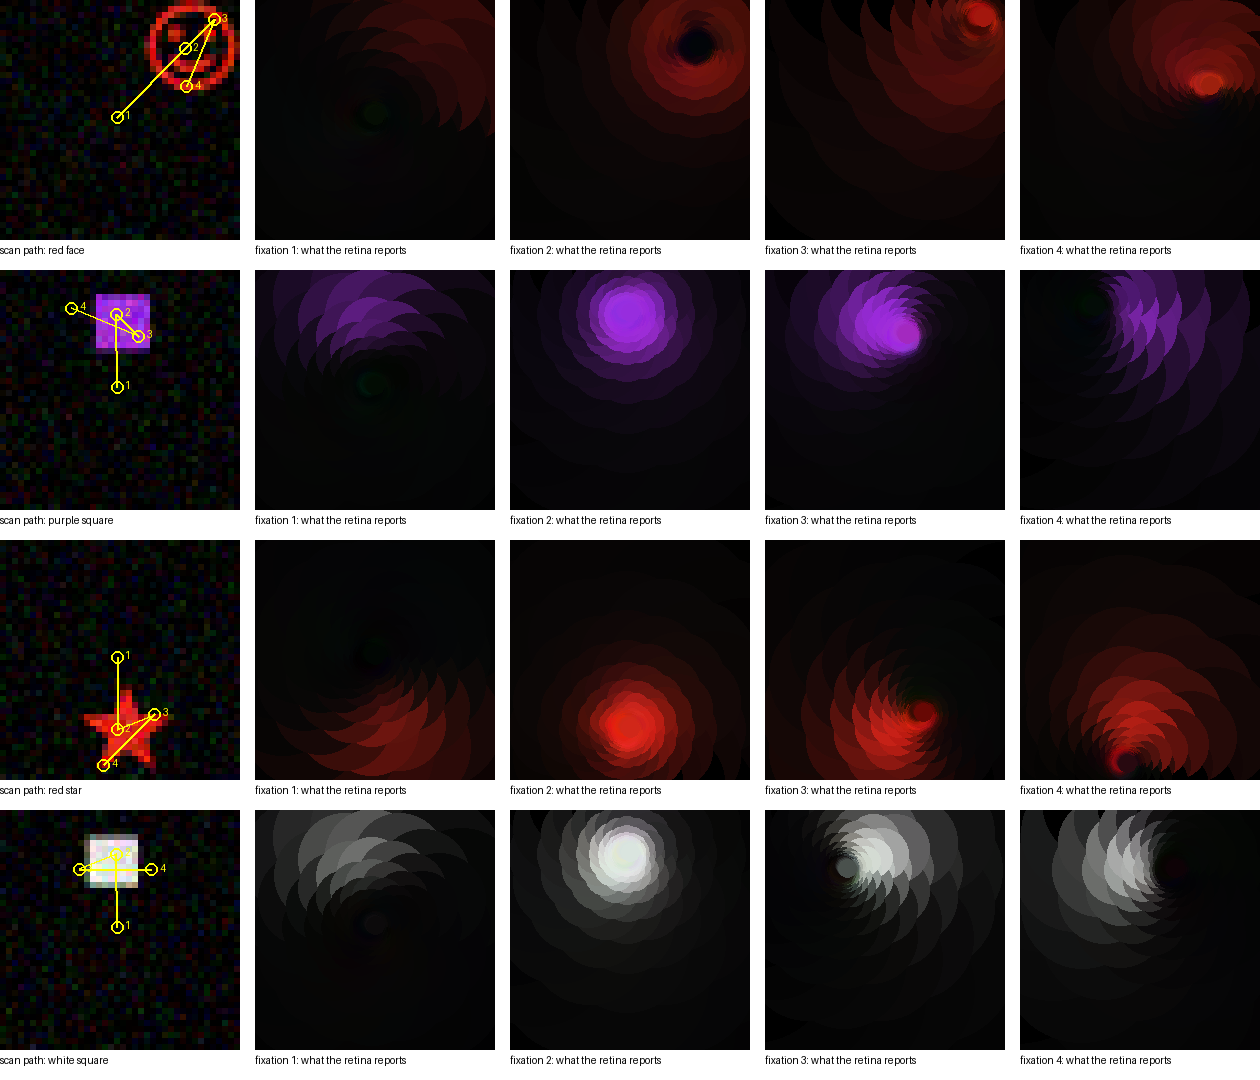
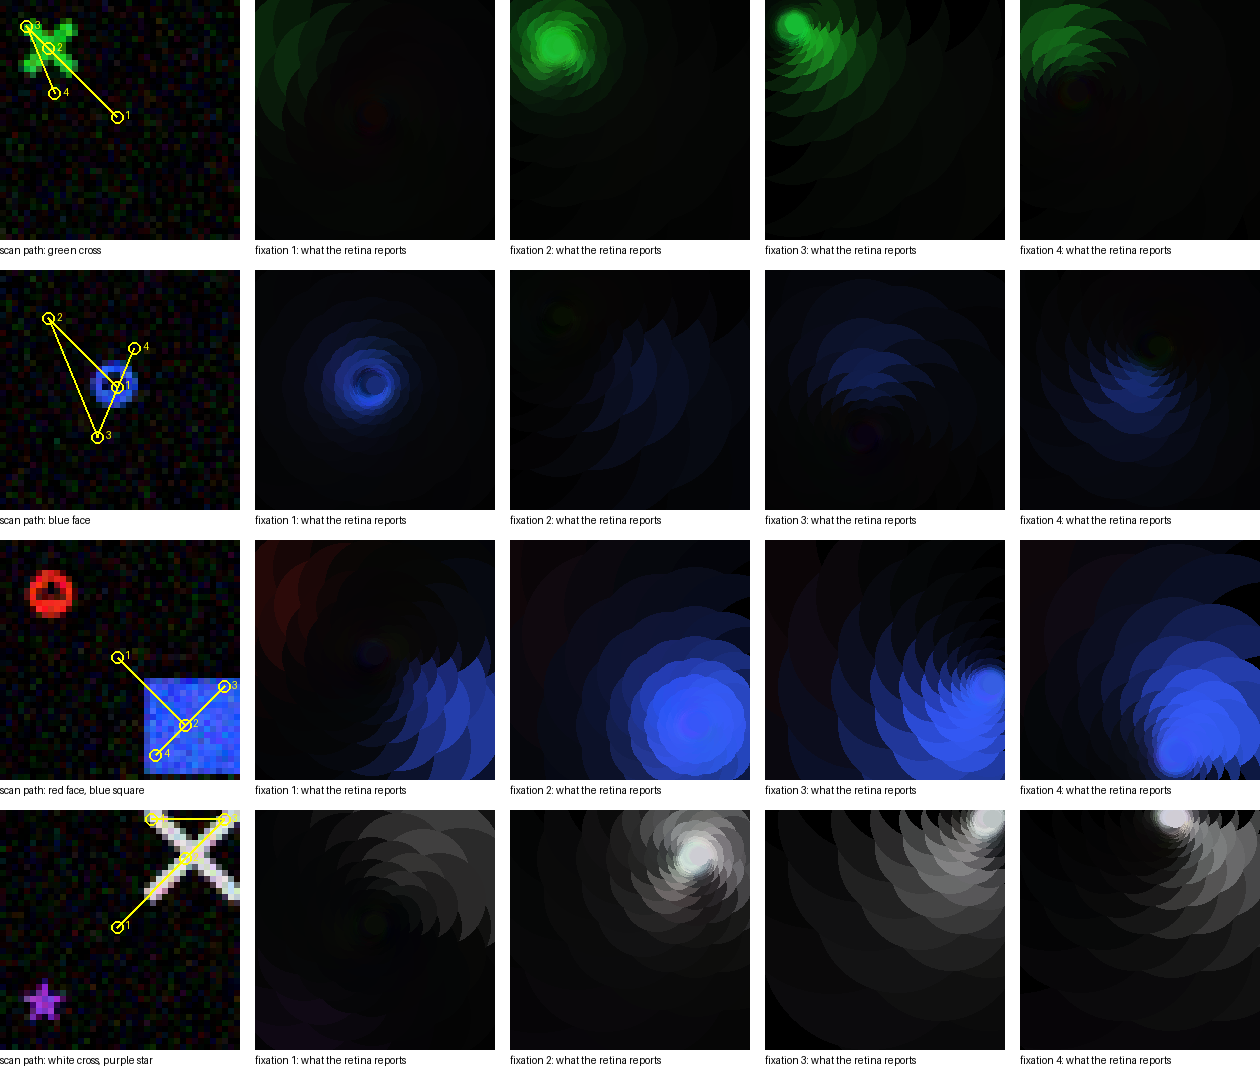
V1 develops oriented and color-opponent cells: contrast normalization + natural images
- V1 learns on signed opponent channels with each window's mean removed
  (local contrast normalization, as in retina/LGN); responses scale with contrast
- development: spontaneous retinal waves, then crops of natural photographs
  (scikit-image), never the task scenes
- all 16 cells find a niche: ring- and spoke-oriented edges, diagonals,
  color-opponent cells

Claude-Session: https://claude.ai/code/session_01G9bW4HVzX4fhrDVZRTMrFU

diff --git a/organic/retina.py b/organic/retina.py
@@ -190,7 +190,8 @@ class V1:
     def __init__(self, kinds=16, window=3, channels=6, k_active=2, seed=0):
         self.kinds = kinds
         self.window = window
-        self.dim = window * window * channels
+        self.channels = channels
+        self.dim = window * window * (channels // 2)  # signed opponent channels
         rng = np.random.default_rng(seed)
         w = rng.normal(0, 1, (kinds, self.dim)).astype(np.float32)
         self.W = w / np.linalg.norm(w, axis=1, keepdims=True)
@@ -199,21 +200,32 @@ class V1:
         self.frozen = False
 
     def patches(self, g):
-        """Every (ring, angle) window of ganglion activity; angles wrap around."""
-        R, A, C = g.shape
+        """Every (ring, angle) window of ganglion activity; angles wrap around.
+
+        ON and OFF cells are combined into signed opponent signals and each
+        window loses its mean (local contrast normalization, as in retina and
+        LGN), so what is left is the spatial pattern. Returns the normalized
+        patterns and their contrast energy.
+        """
+        signed = g[..., 0::2] - g[..., 1::2]  # lum, L-M, S-(L+M)
+        R, A, C = signed.shape
         h = self.window // 2
-        padded = np.concatenate([g[:, -h:], g, g[:, :h]], axis=1)
+        padded = np.concatenate([signed[:, -h:], signed, signed[:, :h]], axis=1)
         padded = np.pad(padded, ((h, h), (0, 0), (0, 0)))
-        out = np.empty((R, A, self.dim), np.float32)
+        out = np.empty((R, A, self.window, self.window, C), np.float32)
         for i in range(R):
             for j in range(A):
-                out[i, j] = padded[i : i + self.window, j : j + self.window].ravel()
-        return out
+                out[i, j] = padded[i : i + self.window, j : j + self.window]
+        out = out - out.mean(axis=(2, 3), keepdims=True)
+        out = out.reshape(R, A, -1)
+        energy = np.linalg.norm(out, axis=-1)
+        return out / (energy[..., None] + 1e-6), energy
 
     def respond(self, g):
-        """Rectified, sparse (k-winners per location) simple-cell responses."""
-        p = self.patches(g)
-        y = np.maximum(p @ self.W.T, 0)  # (R, A, K)
+        """Rectified, sparse (k-winners per location) simple-cell responses,
+        scaled by local contrast."""
+        p, energy = self.patches(g)
+        y = np.maximum(p @ self.W.T, 0) * energy[..., None]  # (R, A, K)
         if self.k_active < self.kinds:
             kth = np.partition(y, -self.k_active, axis=-1)[..., -self.k_active][..., None]
             y = np.where(y >= kth, y, 0)
@@ -224,14 +236,14 @@ class V1:
         if self.frozen:
             return
         rng = rng or np.random.default_rng()
-        p = self.patches(g).reshape(-1, self.dim)
-        norms = np.linalg.norm(p, axis=1)
+        p, energy = self.patches(g)
+        p, norms = p.reshape(-1, self.dim), energy.ravel()
         # Hebbian change needs real activity: only well-driven windows teach
         active = np.nonzero(norms > 0.3 * norms.max())[0] if norms.max() > 1e-3 else []
         if len(active) == 0:
             return
         for idx in rng.choice(active, min(n_samples, len(active)), replace=False):
-            x = p[idx] / norms[idx]
+            x = p[idx]
             # conscience: frequent winners are handicapped so every cell finds a niche
             score = self.W @ x - 0.3 * (self.wins / (self.wins.mean() + 1e-8) - 1)
             c = int(np.argmax(score))
@@ -256,10 +268,10 @@ def retinal_wave(rng, size=40):
     return np.clip(img, 0, 1)
 
 
-def develop_v1(retina, experience, waves=1500, rng=None, kinds=16):
+def develop_v1(retina, experience, waves=1500, rng=None, kinds=16, window=3):
     """Development: spontaneous waves, then visual experience, then freeze."""
     rng = rng or np.random.default_rng(0)
-    v1 = V1(kinds=kinds, seed=int(rng.integers(1 << 30)))
+    v1 = V1(kinds=kinds, window=window, seed=int(rng.integers(1 << 30)))
     for n in range(waves):
         img = retinal_wave(rng)
         _, pyr = retina._pyramid(img)

diff --git a/examples/eye_view.py b/examples/eye_view.py
@@ -13,6 +13,7 @@ import numpy as np
 from PIL import Image, ImageDraw
 
 sys.path.insert(0, os.path.join(os.path.dirname(__file__), ".."))
+from organic.natural import natural_views  # noqa: E402
 from organic.retina import Retina, develop_v1, retinal_wave  # noqa: E402
 from organic.scenes import LOGIC_INTENTS, RELATION_INTENTS, SINGLE_INTENTS, episode  # noqa: E402
 
@@ -54,9 +55,10 @@ def main():
     os.makedirs(OUT, exist_ok=True)
     rng = np.random.default_rng(1)
     retina = Retina()
-    print("developing V1 (retinal waves, then visual experience)...")
-    experience = [episode(rng, "train", SINGLE_INTENTS + RELATION_INTENTS)["image"] for _ in range(300)]
-    v1 = develop_v1(retina, experience, waves=1500, rng=rng)
+    print("developing V1 (retinal waves, then natural images)...")
+    experience = natural_views(rng, 600)
+    window = int(os.environ.get("V1_WINDOW", 3))
+    v1 = develop_v1(retina, experience, waves=1500, rng=rng, window=window)
 
     rows = []
     for _ in range(4):
@@ -89,7 +91,8 @@ def main():
     # V1 cells in a grid: each shown as its window (rings down, angles across)
     # for the three opponent channels (ON minus OFF; gray = 0)
     K = v1.kinds
-    Wk = v1.W.reshape(K, 3, 3, 6)
+    n = v1.window
+    Wk = v1.W.reshape(K, n, n, 3)
     cell, cols = 48, 4
     tile_w, tile_h = 3 * cell + 24, cell + 38
     img = Image.new("RGB", (cols * tile_w, ((K + cols - 1) // cols) * tile_h), "white")
@@ -97,13 +100,13 @@ def main():
     for k in range(K):
         x0, y0 = (k % cols) * tile_w, (k // cols) * tile_h
         scale = np.abs(Wk[k]).max() + 1e-8
-        for c, (on, off, name) in enumerate([(0, 1, "lum"), (2, 3, "L-M"), (4, 5, "S-LM")]):
-            v = (Wk[k, :, :, on] - Wk[k, :, :, off]) / scale
+        for c, name in enumerate(["lum", "L-M", "S-LM"]):
+            v = Wk[k, :, :, c] / scale
             gray = (v * 0.5 + 0.5)[..., None].repeat(3, -1)
             img.paste(to_img(gray).resize((cell, cell), Image.NEAREST), (x0 + c * cell, y0))
             dd.text((x0 + c * cell + 2, y0 + cell + 2), name, fill=(0, 0, 0))
         dd.text((x0, y0 + cell + 18), f"cell {k}: won {int(v1.wins[k])}", fill=(0, 0, 0))
-    img.save(os.path.join(OUT, "eye_v1.png"))
+    img.save(os.path.join(OUT, f"eye_v1_w{n}.png"))
 
     # a retinal wave, for the record
     to_img(retinal_wave(np.random.default_rng(3))).resize((W, W), Image.NEAREST).save(os.path.join(OUT, "eye_wave.png"))

diff --git a/organic/natural.py b/organic/natural.py
@@ -1,0 +1,45 @@
+"""Natural images for the eye's development (photographs bundled with scikit-image).
+
+The eye develops on the visual statistics of the natural world, not on the
+task scenes, so the organ is not tailored to any task.
+"""
+
+import numpy as np
+from PIL import Image
+
+PHOTOS = ["astronaut", "brick", "camera", "chelsea", "coffee", "coins", "grass", "gravel", "moon", "rocket", "clock", "hubble_deep_field", "horse"]
+
+
+def _load():
+    import skimage.data as d
+
+    out = []
+    for name in PHOTOS:
+        im = np.asarray(getattr(d, name)(), np.float32)
+        if im.max() > 1.5:
+            im = im / 255.0
+        if im.ndim == 2:
+            im = np.repeat(im[..., None], 3, axis=2)
+        out.append(np.clip(im[..., :3], 0, 1))
+    return out
+
+
+_PHOTOS = None
+
+
+def natural_views(rng, n, size=40):
+    """n random crops (random scale, position, mirror) resized to the retina's world."""
+    global _PHOTOS
+    if _PHOTOS is None:
+        _PHOTOS = _load()
+    views = []
+    for _ in range(n):
+        im = _PHOTOS[rng.integers(len(_PHOTOS))]
+        H, W = im.shape[:2]
+        side = int(rng.uniform(40, min(H, W, 240)))
+        y, x = rng.integers(0, H - side + 1), rng.integers(0, W - side + 1)
+        crop = im[y : y + side, x : x + side]
+        if rng.random() < 0.5:
+            crop = crop[:, ::-1]
+        views.append(np.asarray(Image.fromarray((crop * 255).astype(np.uint8)).resize((size, size), Image.BILINEAR), np.float32) / 255)
+    return views
